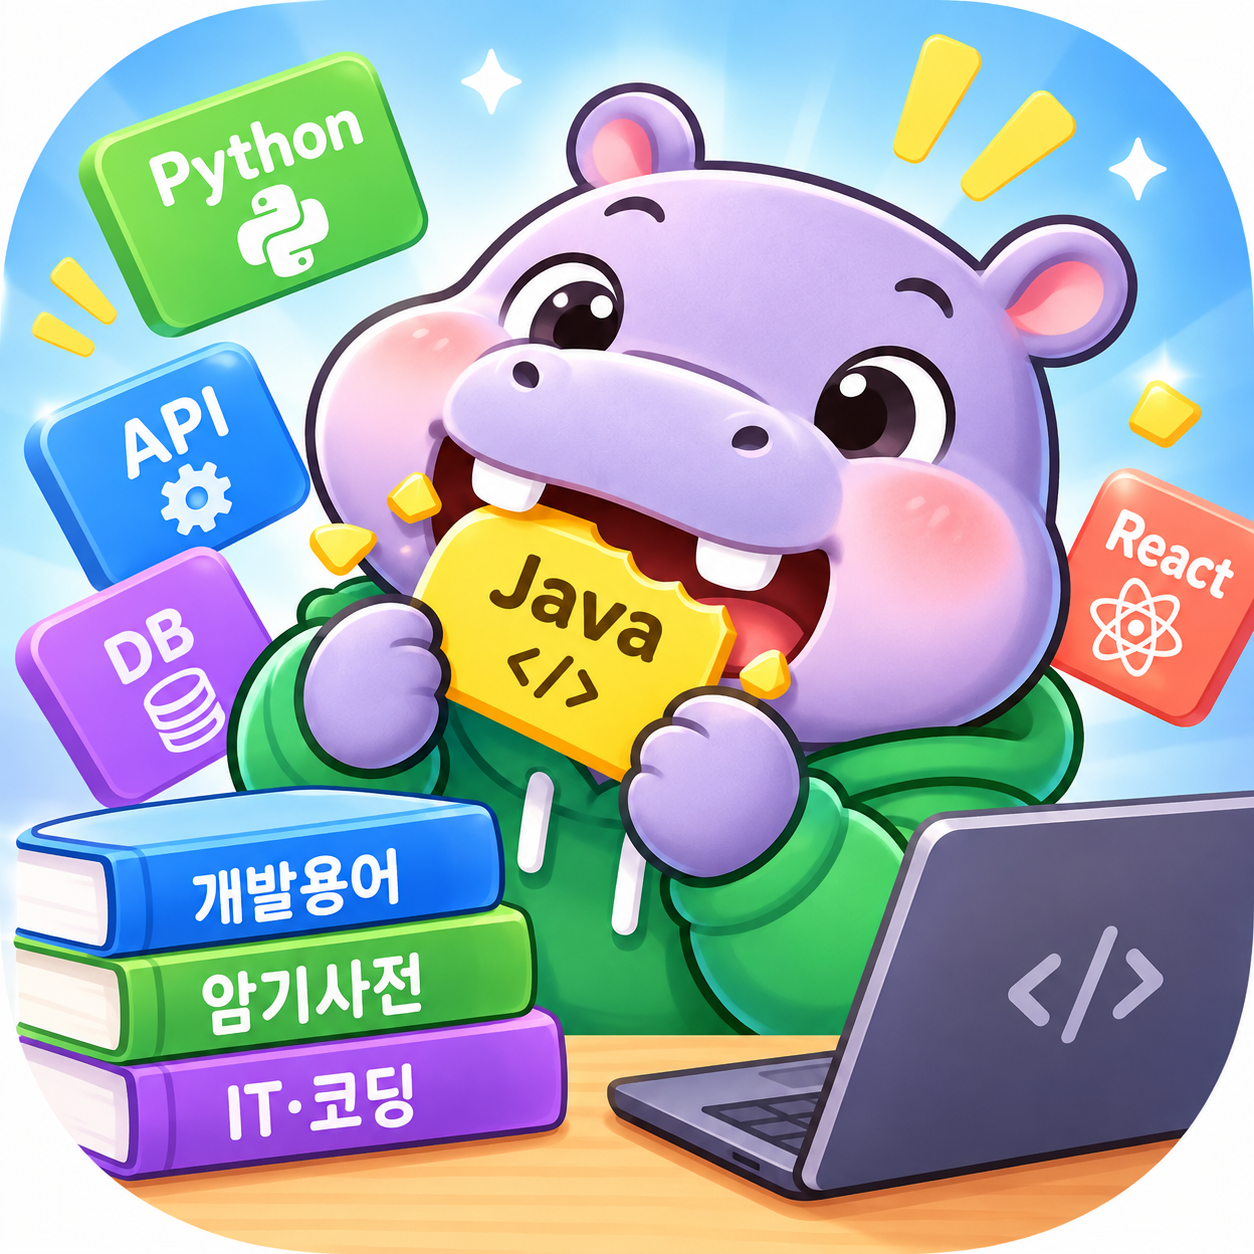
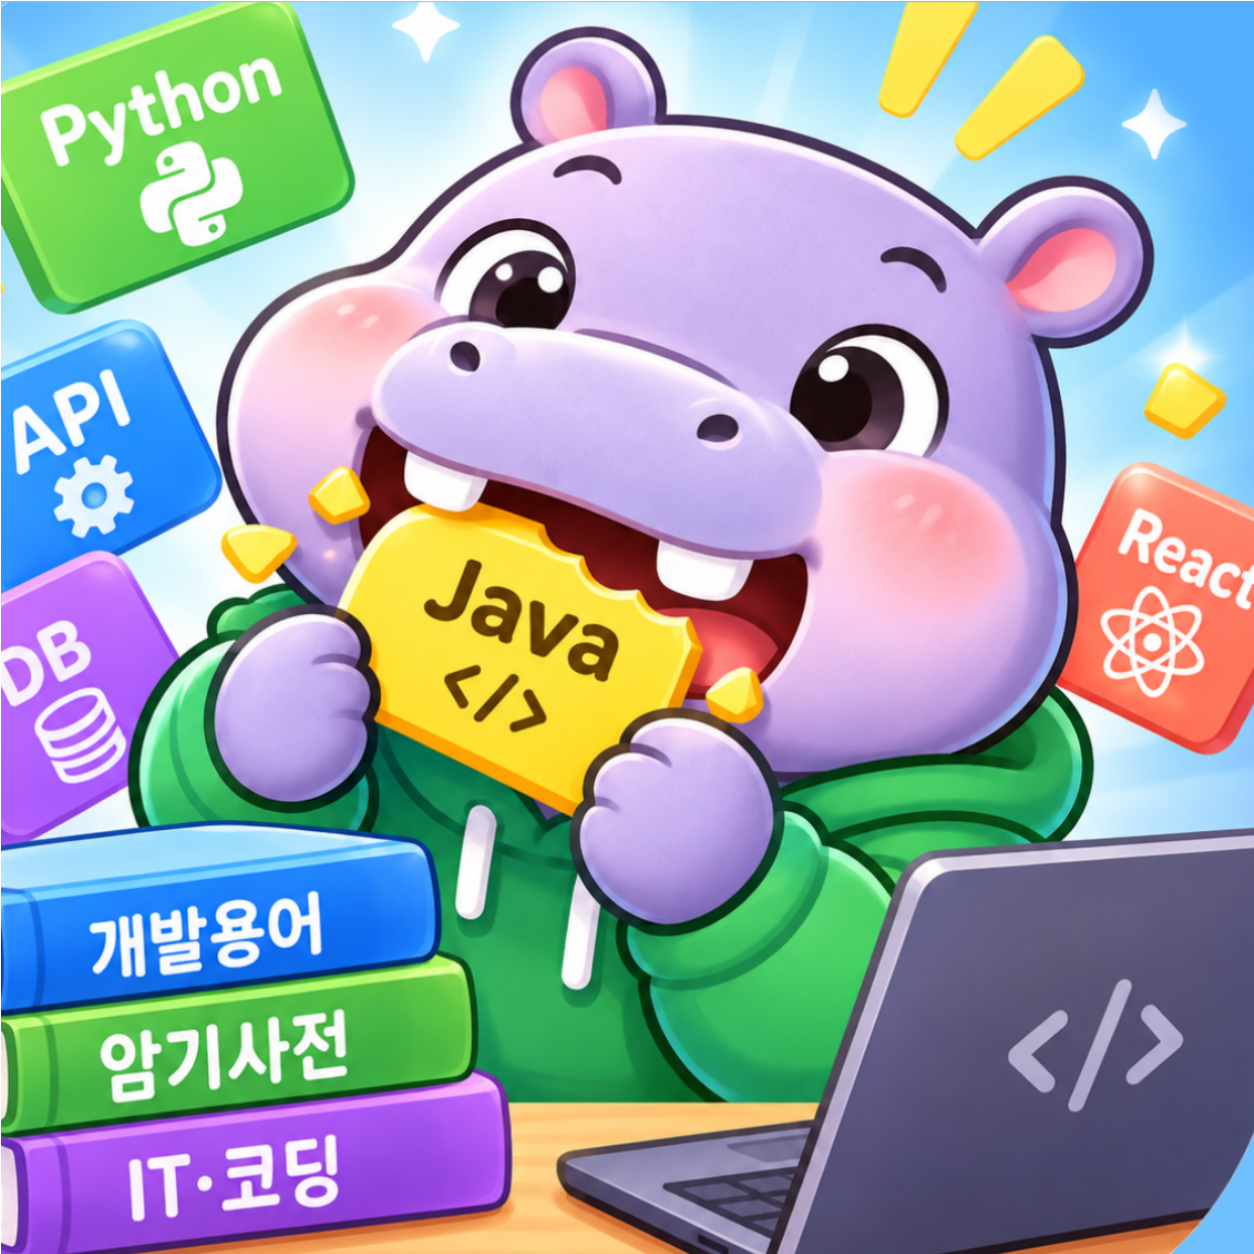
새 아이콘을 적용하고 축소 대신 가장자리를 확대본으로 채운다
새 원본은 흰 여백이 없고 배경이 모서리까지 꽉 차 있다. 그래서
이전처럼 캔버스 가운데로 줄여 넣으면 둘레에 배경 레이어의 파랑이
띠처럼 남아 그림이 액자에 갇힌 것처럼 보인다. 흰 여백이 있던
예전 원본에서는 같은 띠가 의도한 테두리로 읽혔지만 지금은 아니다.

62%·88%·92% 시안을 전부 버리고 축소 자체를 포기했다.

적응형 아이콘 전경은 보이는 영역(가운데 683px = 1024 × 72/108)에
원본을 100% 그대로 넣고, 어차피 잘려 나가는 바깥 33% 는 같은
그림의 확대본으로 채운다. 어떤 런처 마스크에서도 배경 단색이
드러나지 않는다.

원 마스크에서 모서리 카드가 일부 깎이는 것은 원이 사각보다 작아서
생기는 기하학적 한계다. 그림을 줄여 맞추는 대신 잘려도 전체 인상이
유지되는 쪽을 택했다.

배경 레이어는 단색 RGB(141,175,219) 로 둔다. 전경이 모서리까지
덮어 실제로는 보이지 않지만 적응형 아이콘 규격이 요구한다.

icon.png(1024) 와 store/icon-512.png 는 마스킹이 없으므로 원본을
자르지 않고 100% 그대로 리샘플만 했다.

모노크롬은 손대지 않았다. 안드로이드는 모노크롬의 알파 채널만 읽어
시스템 틴트로 칠하는데, 휘도를 알파로 변환해 보니 중간값이 62.6%
라 윤곽이 서지 않는 흐릿한 덩어리가 됐다. 가운데 100% 영역과 바깥
확대본의 경계도 사각형 이음매로 드러난다. 요소가 많은 일러스트라
자동 변환으로는 한계가 있어, 단색 실루엣을 따로 그릴 때까지 미룬다.
지금 기기는 테마 아이콘이 꺼져 있어 급하지 않다.

Claude-Session: https://claude.ai/code/session_01WNMV7gewnxCDzJpHEGuw6q

diff --git a/README.md b/README.md
@@ -713,7 +713,7 @@ y=   0  투자 대비 수익률                    ← 좌표가 0으로 튐
 
 | 날짜 | 한 일 |
 |---|---|
-| **2026-11-16** | 구글 플레이 업로드 준비 — 릴리스 키스토어 생성 · AAB 빌드 추가(`build-android.ps1 bundle`) · 서명 설정을 config plugin 으로 옮겨 `expo prebuild --clean` 후에도 살아남게 했다 (`build.gradle` 직접 수정은 prebuild 가 지운다) · **테스트 기반 구축** — jest-expo, 순수 함수 103개, GitHub Actions CI ([#19](https://github.com/reddol18/dev_keyword_test/issues/19)). 쓰면서 `nextCard` 에 streak 가드를 넣었다 — 깨진 기록이 들어오면 `due` 가 NaN 날짜로 영구 저장되는 경로가 있었다 · **SRS 저장 구조를 `srs-v2` 로 올렸다** — 카드 키에 덱을 넣어 두 덱의 같은 단어가 기록을 공유하던 것을 끊고([#17](https://github.com/reddol18/dev_keyword_test/issues/17)), 버전을 데이터 안에 넣어 다음 구조 변경 때 복습이 조용히 멈추지 않게 했다([#18](https://github.com/reddol18/dev_keyword_test/issues/18)). 기존 `srs-v1` 기록은 첫 실행에 한 번 옮긴다 — 실기기 업데이트 설치로 복습 61개가 그대로 보존되는 것을 확인했다 · **안드로이드 뒤로가기를 붙였다** ([#20](https://github.com/reddol18/dev_keyword_test/issues/20)) — 네비게이션 스택이 없어서 시험 중 뒤로가기가 앱을 그냥 종료시키고 그 회차의 점수·오답노트가 사라졌다. 화면 상태 2개(`config`/`listing`)를 판별 유니온 `Route` 하나로 합쳐 무효 조합을 타입에서 막고, `react-navigation` 없이 `BackHandler` 로 처리한다 · **시험 중 이탈에 확인을 넣었다** ([#21](https://github.com/reddol18/dev_keyword_test/issues/21)) — 푼 문제가 있을 때만 묻고, `← 설정` 과 하드웨어 뒤로가기가 같은 경로를 탄다 · **진도 내보내기·초기화** ([#25](https://github.com/reddol18/dev_keyword_test/issues/25)) — 목록 끝에 배치. 새 패키지 없이 RN 내장 `Share` 를 쓴다(`expo-sharing` 은 로컬 파일만 보낼 수 있어 `expo-file-system` 까지 필요했다). 쓰이지 않던 `clearCards()` 를 "처음부터 다시 외우기"로 살렸고, "이 기기에만 저장됩니다" 안내를 앱 안에 넣었다 · **로딩과 "낼 문제가 없음"을 갈랐다** ([#26](https://github.com/reddol18/dev_keyword_test/issues/26)) — 둘 다 문제 0개라서 같은 값이었고, 그래서 "만들었는데 0개"가 `문제 준비 중…` 에 영구히 갇히는 경로가 있었다(기다릴 비동기 작업이 없어 저절로 안 풀린다). `questions` 를 `Question[] \| null` 로 바꿔 "아직 안 만듦"을 `null` 로 표현하고, 네 상태 판정을 순수 함수 `quizPhase` 로 빼 테스트로 덮었다. 0개일 때는 나갈 길이 있는 안내 화면을 보여준다 — 조건에 맞는 단어가 없는 건 오류가 아니라 정상 상태다. 확인하면서 `buildQuiz` 에 음수 `count` 가 들어오면 `slice(0, -1)` 이 뒤에서 세어 **거의 전부**를 출제하던 것도 같이 막았다 · **채점 중 문제가 바뀌면 그 결과를 버린다** ([#22](https://github.com/reddol18/dev_keyword_test/issues/22)) — `await gradeByMode` 가 수 초 걸리는 동안 다른 문제로 넘어가면 답한 적 없는 문제가 오답으로 기록되고 SRS 복습 주기까지 당겨졌다. 지금까지는 채점 중에 "다음" 버튼이 안 그려져서 막혀 있었는데, 그건 로직이 아니라 **화면 모양에 기댄 안전성**이고 뒤로가기가 들어온 뒤로는 이미 새는 경로가 생겼다(채점 중 그만두기 → 화면은 사라지지만 추론이 끝나면 SRS 에 오답을 쓴다). 회차(`epoch`)와 문제 번호를 함께 보는 `shouldKeepGrade` 순수 함수로 판정을 빼고, `next`/`restart` 에 `grading` 가드를 넣었다 · **모델 로딩 실패를 '로딩 중' 과 구분한다** ([#23](https://github.com/reddol18/dev_keyword_test/issues/23)) — 불리언으로는 "로딩 중"과 "실패"가 같은 `false` 라서, 106MB 모델 로딩이 실패한 기기에 "○ 모델 로딩 중" 이 영구히 떠 있었다(앱은 규칙 기반으로 정상 동작하는데도 고장으로 읽힌다). `'loading' | 'ready' | 'failed'` 상태 하나로 바꾸고 문구를 "규칙 기반으로 채점합니다"처럼 확정된 표현으로 고쳤다. `embedding.ts` 는 실패 시 캐시된 Promise 를 비워 재시도가 가능하게 했다 — 예전에는 reject 된 Promise 가 캐시에 남아 세션 내내 영구 실패였다 · **개인정보처리방침 링크를 앱 안에 넣었다** ([#24](https://github.com/reddol18/dev_keyword_test/issues/24)) — AdMob 때문에 INTERNET·AD_ID 권한이 머지됐는데 설명이 앱 어디에도 없었다. 목록 끝 데이터 관리 자리에 RN 내장 `Linking` 으로 링크를 두고(새 패키지 없이), 인터넷 권한이 광고용이라는 한 줄도 같이 넣었다 · **안드로이드 적응형 아이콘이 잘리던 것을 고쳤다** — 전경이 원본 일러스트 그대로여서 실기기(MIUI)에서 하마 얼굴만 남고 책 세 권·노트북·`Python` 카드가 전부 잘려 나갔다. 적응형 아이콘은 108dp 레이어 중 72dp 만 보이고(바깥 33% 유실), 거기에 기기별 마스크가 한 번 더 깎는다. 원본을 1024 캔버스 가운데 **62%** 로 줄여 넣고 바깥은 투명하게 뒀다(`Format32bppArgb` — 알파가 없으면 배경 레이어가 안 보인다). 안전 영역 기준인 66.7% 로는 부족했다 — 그 기준은 *정사각형* 인데 원 마스크의 내접 정사각형은 70.7% 뿐이라 모서리 쪽 `Python`·`IT·코딩`·`React` 가 여전히 깎인다. 원·사각·물방울 세 마스크를 씌워 비교한 뒤 62% 를 골랐다 |
+| **2026-11-16** | 구글 플레이 업로드 준비 — 릴리스 키스토어 생성 · AAB 빌드 추가(`build-android.ps1 bundle`) · 서명 설정을 config plugin 으로 옮겨 `expo prebuild --clean` 후에도 살아남게 했다 (`build.gradle` 직접 수정은 prebuild 가 지운다) · **테스트 기반 구축** — jest-expo, 순수 함수 103개, GitHub Actions CI ([#19](https://github.com/reddol18/dev_keyword_test/issues/19)). 쓰면서 `nextCard` 에 streak 가드를 넣었다 — 깨진 기록이 들어오면 `due` 가 NaN 날짜로 영구 저장되는 경로가 있었다 · **SRS 저장 구조를 `srs-v2` 로 올렸다** — 카드 키에 덱을 넣어 두 덱의 같은 단어가 기록을 공유하던 것을 끊고([#17](https://github.com/reddol18/dev_keyword_test/issues/17)), 버전을 데이터 안에 넣어 다음 구조 변경 때 복습이 조용히 멈추지 않게 했다([#18](https://github.com/reddol18/dev_keyword_test/issues/18)). 기존 `srs-v1` 기록은 첫 실행에 한 번 옮긴다 — 실기기 업데이트 설치로 복습 61개가 그대로 보존되는 것을 확인했다 · **안드로이드 뒤로가기를 붙였다** ([#20](https://github.com/reddol18/dev_keyword_test/issues/20)) — 네비게이션 스택이 없어서 시험 중 뒤로가기가 앱을 그냥 종료시키고 그 회차의 점수·오답노트가 사라졌다. 화면 상태 2개(`config`/`listing`)를 판별 유니온 `Route` 하나로 합쳐 무효 조합을 타입에서 막고, `react-navigation` 없이 `BackHandler` 로 처리한다 · **시험 중 이탈에 확인을 넣었다** ([#21](https://github.com/reddol18/dev_keyword_test/issues/21)) — 푼 문제가 있을 때만 묻고, `← 설정` 과 하드웨어 뒤로가기가 같은 경로를 탄다 · **진도 내보내기·초기화** ([#25](https://github.com/reddol18/dev_keyword_test/issues/25)) — 목록 끝에 배치. 새 패키지 없이 RN 내장 `Share` 를 쓴다(`expo-sharing` 은 로컬 파일만 보낼 수 있어 `expo-file-system` 까지 필요했다). 쓰이지 않던 `clearCards()` 를 "처음부터 다시 외우기"로 살렸고, "이 기기에만 저장됩니다" 안내를 앱 안에 넣었다 · **로딩과 "낼 문제가 없음"을 갈랐다** ([#26](https://github.com/reddol18/dev_keyword_test/issues/26)) — 둘 다 문제 0개라서 같은 값이었고, 그래서 "만들었는데 0개"가 `문제 준비 중…` 에 영구히 갇히는 경로가 있었다(기다릴 비동기 작업이 없어 저절로 안 풀린다). `questions` 를 `Question[] \| null` 로 바꿔 "아직 안 만듦"을 `null` 로 표현하고, 네 상태 판정을 순수 함수 `quizPhase` 로 빼 테스트로 덮었다. 0개일 때는 나갈 길이 있는 안내 화면을 보여준다 — 조건에 맞는 단어가 없는 건 오류가 아니라 정상 상태다. 확인하면서 `buildQuiz` 에 음수 `count` 가 들어오면 `slice(0, -1)` 이 뒤에서 세어 **거의 전부**를 출제하던 것도 같이 막았다 · **채점 중 문제가 바뀌면 그 결과를 버린다** ([#22](https://github.com/reddol18/dev_keyword_test/issues/22)) — `await gradeByMode` 가 수 초 걸리는 동안 다른 문제로 넘어가면 답한 적 없는 문제가 오답으로 기록되고 SRS 복습 주기까지 당겨졌다. 지금까지는 채점 중에 "다음" 버튼이 안 그려져서 막혀 있었는데, 그건 로직이 아니라 **화면 모양에 기댄 안전성**이고 뒤로가기가 들어온 뒤로는 이미 새는 경로가 생겼다(채점 중 그만두기 → 화면은 사라지지만 추론이 끝나면 SRS 에 오답을 쓴다). 회차(`epoch`)와 문제 번호를 함께 보는 `shouldKeepGrade` 순수 함수로 판정을 빼고, `next`/`restart` 에 `grading` 가드를 넣었다 · **모델 로딩 실패를 '로딩 중' 과 구분한다** ([#23](https://github.com/reddol18/dev_keyword_test/issues/23)) — 불리언으로는 "로딩 중"과 "실패"가 같은 `false` 라서, 106MB 모델 로딩이 실패한 기기에 "○ 모델 로딩 중" 이 영구히 떠 있었다(앱은 규칙 기반으로 정상 동작하는데도 고장으로 읽힌다). `'loading' | 'ready' | 'failed'` 상태 하나로 바꾸고 문구를 "규칙 기반으로 채점합니다"처럼 확정된 표현으로 고쳤다. `embedding.ts` 는 실패 시 캐시된 Promise 를 비워 재시도가 가능하게 했다 — 예전에는 reject 된 Promise 가 캐시에 남아 세션 내내 영구 실패였다 · **개인정보처리방침 링크를 앱 안에 넣었다** ([#24](https://github.com/reddol18/dev_keyword_test/issues/24)) — AdMob 때문에 INTERNET·AD_ID 권한이 머지됐는데 설명이 앱 어디에도 없었다. 목록 끝 데이터 관리 자리에 RN 내장 `Linking` 으로 링크를 두고(새 패키지 없이), 인터넷 권한이 광고용이라는 한 줄도 같이 넣었다 · **앱 아이콘을 새로 그려 교체했다** — 새 원본(`assets/icon-new.png`, 1254×1254)은 흰 여백이 없고 배경이 모서리까지 꽉 찬다. 적응형 아이콘은 108dp 레이어 중 72dp 만 보이고(바깥 33% 유실) 거기에 기기별 마스크가 한 번 더 깎는데, 이번에는 **그림을 줄이지 않았다.** 보이는 영역(가운데 683px)에 원본을 100% 그대로 넣고, 어차피 잘려 나가는 바깥 33% 는 같은 그림의 확대본으로 채워 **어떤 마스크에서도 배경 단색이 드러나지 않게** 했다. 62%·88%·92% 로 줄인 시안을 만들어 보고 전부 버렸다 — 모서리까지 그림이 찬 원본을 캔버스 가운데로 줄이면 둘레에 배경 레이어의 파랑이 띠처럼 남아, 그림이 액자에 갇힌 것처럼 보인다(흰 여백이 있던 이전 원본에서는 이 띠가 의도한 테두리로 읽혔다). 원 마스크에서 모서리 카드가 일부 깎이는 건 원이 사각보다 작아서 생기는 기하학적 한계라 설정으로는 못 푼다. 모노크롬(테마 아이콘)은 **보류했다** — 안드로이드는 알파 채널만 읽어 시스템 틴트로 칠하는데, 휘도를 알파로 변환해 봤더니 중간값이 62.6% 라 윤곽이 서지 않는 흐릿한 덩어리가 됐다(요소가 많은 일러스트라 자동 변환으로는 안 된다). 제대로 하려면 단색 실루엣을 따로 그려야 한다 |
 | **2026-11-05** | 목록 스크롤이 멈추던 문제 수정 ([#15](https://github.com/reddol18/dev_keyword_test/issues/15)) · 검색 결과가 없을 때 다른 덱에 있으면 알려 준다 · `Reproducibility` 추가 (423 → **424**) ([#14](https://github.com/reddol18/dev_keyword_test/issues/14)) · 목록 화면 스크린샷 갱신 |
 | **2026-11-02** | IT 용어 32개 추가 (391 → **423**) — 빌드·패키지 / 타입 계약 / 서버 상태·스트림 / LLM 평가 네 분야 신설 |
 | **2026-10-29** | IT 용어 90개 추가 (301 → **391**) — 쿠버네티스·인프라 / LLM 게이트웨이 / 문서 AI·LangGraph 세 분야 신설 |

diff --git a/store/assets.md b/store/assets.md
@@ -30,32 +30,68 @@
 **가운데 66.7% 만 남고 바깥 33% 는 잘린다.** 거기에 기기별 마스크
 (원·사각·물방울·스퀘어클)가 한 번 더 깎는다.
 
-전경이 원본 일러스트 그대로여서 실기기(Redmi, MIUI)에서 **하마 얼굴만
-꽉 차게 남았다.** 왼쪽 책 더미의 `개발용어`·`암기사전`·`IT·코딩` 이
-잘리고, 오른쪽 노트북은 거의 안 보이고, 위쪽 `Python` 카드도 잘렸다.
+**새 원본은 흰 여백이 없고 배경이 모서리까지 꽉 차 있다.**
+(`assets/icon-new.png`, 1254×1254) 그래서 접근을 바꿨다.
 
-**원본을 1024 캔버스 가운데에 62% 로 축소**해 넣고 바깥은 투명하게
-뒀다. 뒤는 배경 레이어(단색 `#4A9EFF`)가 채운다.
-(`Format32bppArgb` — 알파가 없으면 배경이 안 보인다.)
+#### 그림은 100% 그대로, 축소하지 않는다
 
-| 비율 | 원 마스크에서 |
+전경 `assets/android-icon-foreground.png`(1024) 는 이렇게 만든다.
+
+```
+가운데 683px (= 1024 × 72/108)  ← 원본 100%
+그 바깥 33%                      ← 같은 그림의 확대본
+```
+
+보이는 영역 안에는 **원본이 한 픽셀도 줄지 않고** 들어간다. 바깥
+33% 는 어차피 잘려 나가는 자리이므로, 같은 그림을 확대해 채워
+**어떤 런처 마스크에서도 배경 단색이 드러나지 않게** 한다.
+
+#### 왜 축소를 버렸나
+
+62%·88%·92% 로 줄인 시안을 전부 만들어 보고 기각했다.
+
+> **축소하면 배경 파랑이 테두리처럼 보인다.** 새 원본은 모서리까지
+> 그림이 차 있어서, 캔버스 가운데로 줄여 넣는 순간 둘레에 배경
+> 레이어의 단색 `#4A9EFF` 가 띠처럼 남는다. 이전 원본은 흰 여백이
+> 있어 이 띠가 "의도한 테두리"로 읽혔지만, 지금 원본에서는 그림이
+> 액자에 갇힌 것처럼 어색하다. 그래서 축소 자체를 포기했다.
+
+#### 남는 한계
+
+원 마스크에서는 모서리 쪽 카드가 일부 깎인다. 이건 **원이 사각보다
+작아서 생기는 기하학적 한계**지 설정으로 풀 수 있는 문제가 아니다.
+그림을 줄여 맞추는 대신, 잘려도 전체 인상이 유지되는 쪽을 택했다.
+
+#### 배경 레이어
+
+`assets/android-icon-background.png`(512) 는 단색 `RGB(141,175,219)` 다.
+실제로는 전경이 모서리까지 덮어 **보이지 않지만** 적응형 아이콘 규격이
+배경 레이어를 요구하므로 둔다.
+
+`assets/icon.png`(1024) 와 `store/icon-512.png`(512) 는 마스킹이 없으므로
+**원본을 자르지 않고 100% 그대로** 리샘플만 했다.
+
+#### 모노크롬 (테마 아이콘) — 보류
+
+`assets/android-icon-monochrome.png`(432) 는 **손대지 않았다.**
+
+안드로이드는 모노크롬 레이어의 **알파 채널만 읽어 시스템 틴트로**
+칠한다. 그래서 휘도를 알파로 변환(어두운 선 = 불투명)해 새로 만들어
+봤지만 결과가 쓸 수준이 아니었다.
+
+| 알파 | 비율 |
 |---|---|
-| 100% (수정 전) | 하마 얼굴만. 책·노트북·카드 전부 유실 |
-| 76% | `Python` 사라짐, `개발용어` 외 책 두 권 잘림 |
-| 72% | `Python` → `ython`, `IT·코딩` → `코딩` |
-| 66.7% (안전 영역) | `Python` → `ython`, `IT·코딩` → `T·코딩`, `React` → `Reac` |
-| **62% (채택)** | **전부 온전.** 원·사각·물방울 셋 다 잘리는 요소 없음 |
+| 불투명 (≥200) | 5.1% |
+| 투명 (≤55) | 32.3% |
+| **중간값** | **62.6%** |
 
-> **66.7% 로는 부족하다.** 안전 영역은 *정사각형* 기준인데 원 마스크의
-> 내접 정사각형은 그 70.7% 뿐이다. 모서리 쪽 요소(`Python`, `IT·코딩`,
-> `React`)가 원에서는 여전히 깎인다. 62% 가 원까지 버티는 선이다.
->
-> 대신 파란 테두리가 얇게 보인다. 원본의 하늘색 배경이 `#4A9EFF` 로
-> 이어져 **의도한 테두리처럼 읽힌다.** 58% 도 만들어 봤으나 위아래
-> 여백이 떠 보여 버렸다.
+중간값이 62.6% 라 **윤곽이 서지 않고 흐릿한 덩어리**가 된다. 미리보기
+에서도 가운데 100% 영역과 바깥 확대본의 경계가 사각형 이음매로 드러나고,
+카드 글자는 읽히지 않는다. 테마 아이콘은 단순한 실루엣이어야 하는데
+원본 일러스트는 요소가 너무 많아 자동 변환으로는 안 된다.
 
-원본은 `assets/icon-new.png`(1254×1254). `assets/icon.png` 와
-`store/icon-512.png` 는 마스킹이 없으므로 **그대로 둔다.**
+**지금 기기는 테마 아이콘이 꺼져 있어 급하지 않다.** 제대로 하려면
+하마 윤곽만 남긴 단색 실루엣을 따로 그려야 한다.
 
 ---
 
